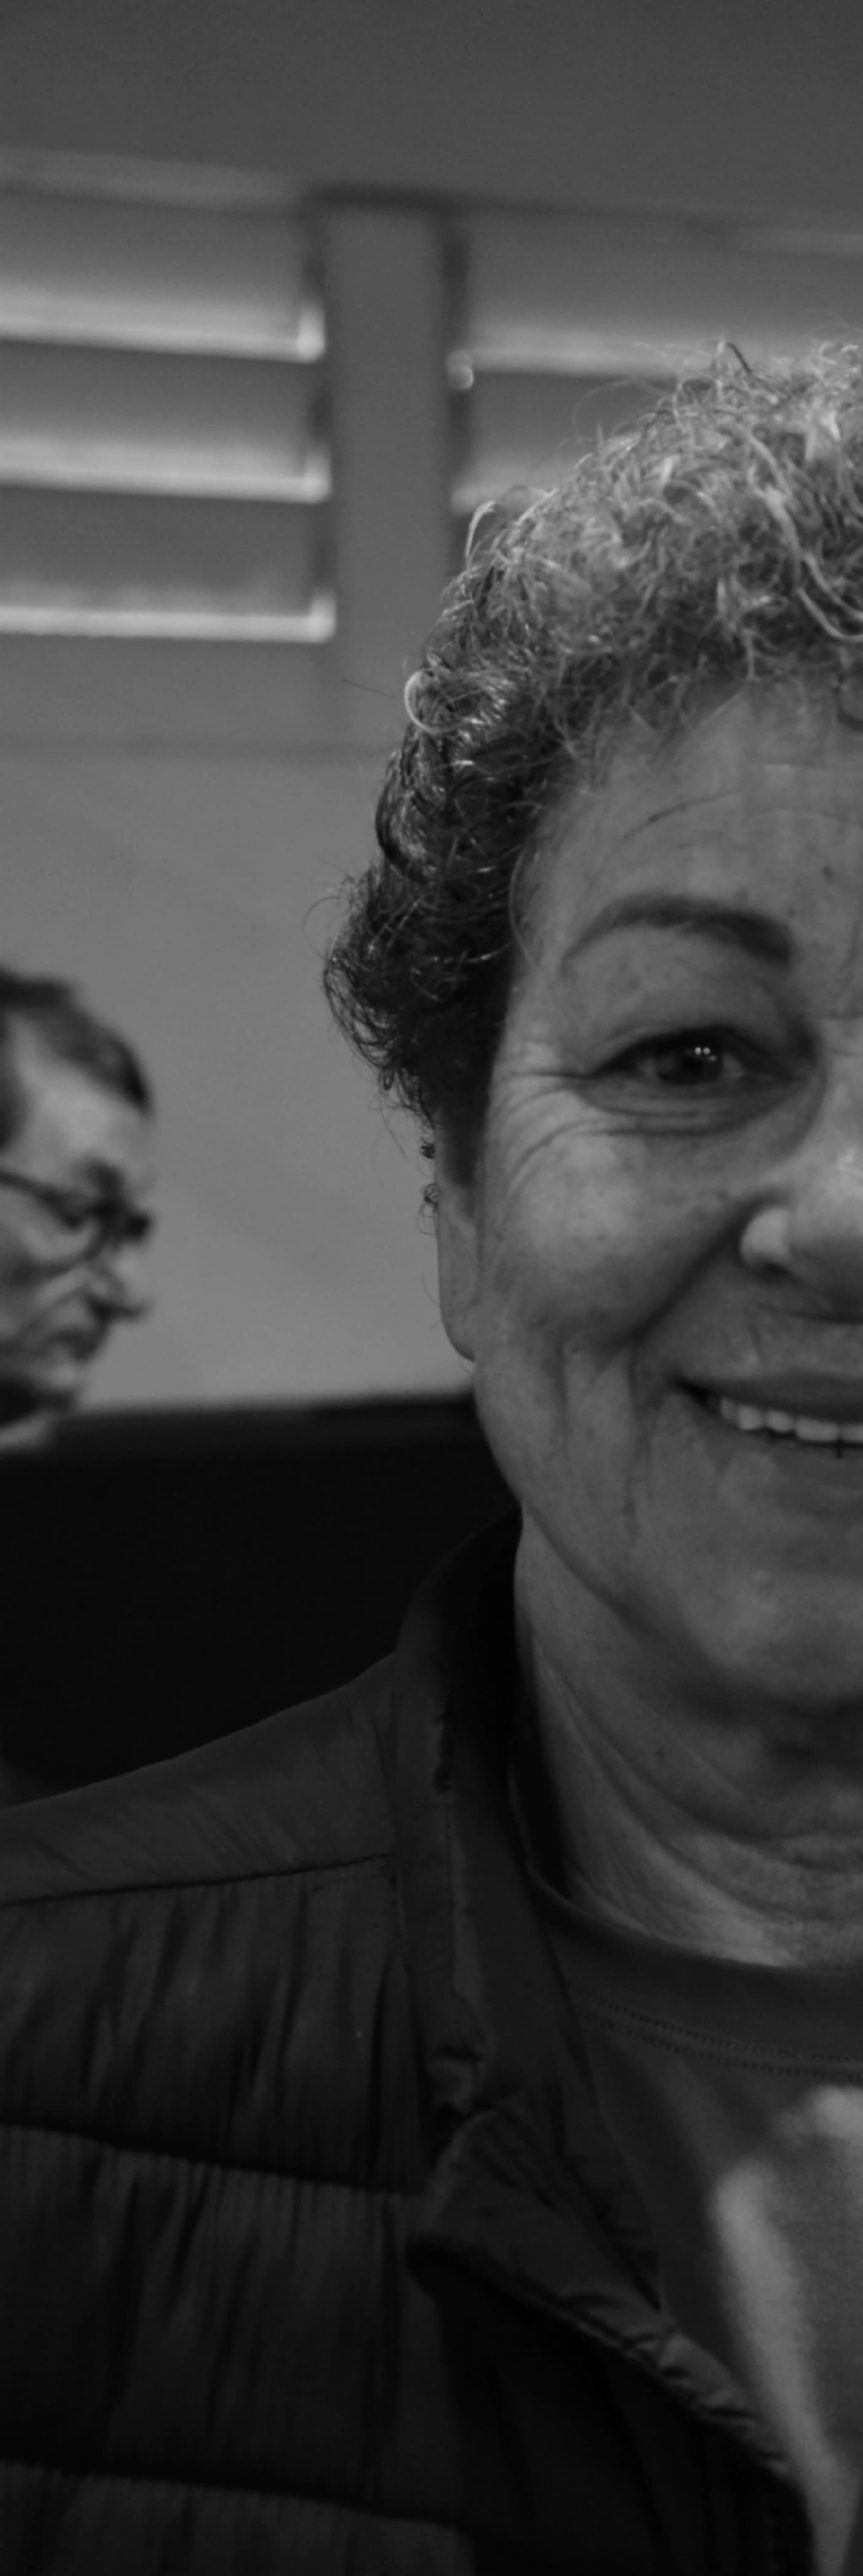
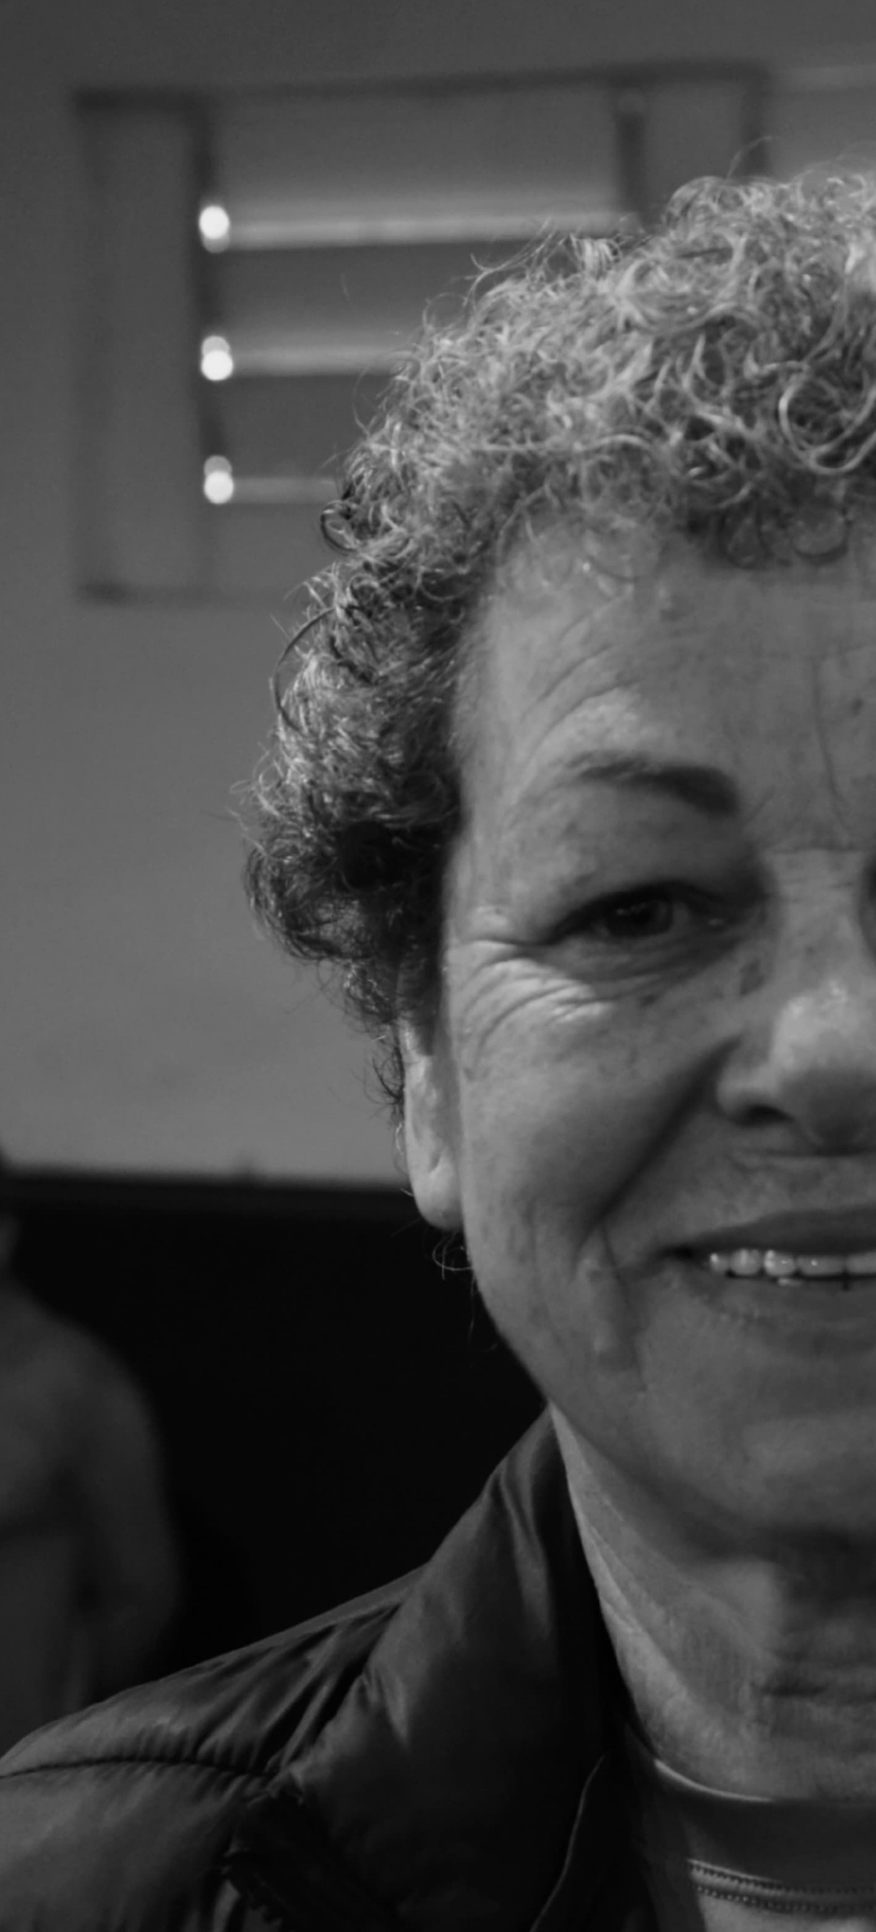
ajustes visuais na tela inicial

diff --git a/src/components/HomePage.tsx b/src/components/HomePage.tsx
@@ -15,7 +15,7 @@ export function HomePage() {
   const storyHeading = useRef<HTMLHeadingElement>(null);
 
   useEffect(() => {
-    document.title = person ? person.name + ' — Envelhecer em Foco' : 'Envelhecer em Foco — histórias que permanecem';
+    document.title = person ? person.name + ' — Envelhecer' : 'Envelhecer — histórias que permanecem';
     if (person) {
       lastSelected.current = person.id;
       storyHeading.current?.focus({ preventScroll: true });
@@ -37,13 +37,13 @@ export function HomePage() {
     <>
       <a className="skip-link" href={person ? '#narrativa' : '#retratos'}>{person ? 'Pular para a narrativa' : 'Pular para os retratos'}</a>
       <main className={'experience' + (person ? ' experience--story' : '')}>
-        <section className="stage" id="retratos" aria-label={person ? 'Apresentação da história' : 'Envelhecer em Foco'}>
+        <section className="stage" id="retratos" aria-label={person ? 'Apresentação da história' : 'Envelhecer'}>
           <PortraitGallery people={interviewees} selectedId={selectedId} onSelect={navigate} getButtonRef={(id) => (node) => { if (node) portraitButtons.current.set(id, node); else portraitButtons.current.delete(id); }} />
           <div className="home-content" aria-hidden={!!person} inert={!!person}>
-            <header className="home-topline"><span className="project-mark"><span className="frame-mark" aria-hidden="true" />Um projeto documental</span><span>Chapecó · Santa Catarina</span></header>
+            <header className="home-topline"><span className="project-mark"><span className="frame-mark" aria-hidden="true" />Fotodocumentário</span><span>Chapecó · Santa Catarina</span></header>
             <div className="home-title">
               <p className="home-title__intro">Quatro vidas. Um tempo de escuta.</p>
-              <h1>ENVELHECER<span>EM FOCO</span></h1>
+              <h1>ENVELHECER<span></span></h1>
             </div>
             <footer className="home-bottomline">
               <p>Selecione um retrato<br className="mobile-break" /> para conhecer sua história<span className="small-cross" aria-hidden="true">+</span></p>
@@ -54,7 +54,7 @@ export function HomePage() {
             <header className="story-intro" key={person.id}>
               <BackButton onBack={() => navigate(null)} />
               <div className="story-intro__body">
-                <p className="eyebrow">Envelhecer em Foco <span>História {person.number} / 04</span></p>
+                <p className="eyebrow">Envelhecer<span>História {person.number} / 04</span></p>
                 {person.isDemo && <p className="demo-label">Nome, imagem e texto demonstrativos</p>}
                 <h1 ref={storyHeading} tabIndex={-1}>{person.name}</h1>
                 <div className="story-intro__quote">

diff --git a/src/components/PortraitPanel.tsx b/src/components/PortraitPanel.tsx
@@ -25,7 +25,7 @@ export function PortraitPanel({ person, selectedId, onSelect, buttonRef }: {
       <PortraitImage person={person} className="portrait-panel__image" decorative eager />
       <span className="portrait-panel__shade" />
       <span className="portrait-panel__caption">
-        <span className="portrait-panel__number">{person.number}<span className="portrait-panel__rule" /></span>
+      <span className="portrait-panel__rule" />
         <span className="portrait-panel__name">{person.name}</span>
         <span className="portrait-panel__action">Conheça a história <Arrow /></span>
       </span>
